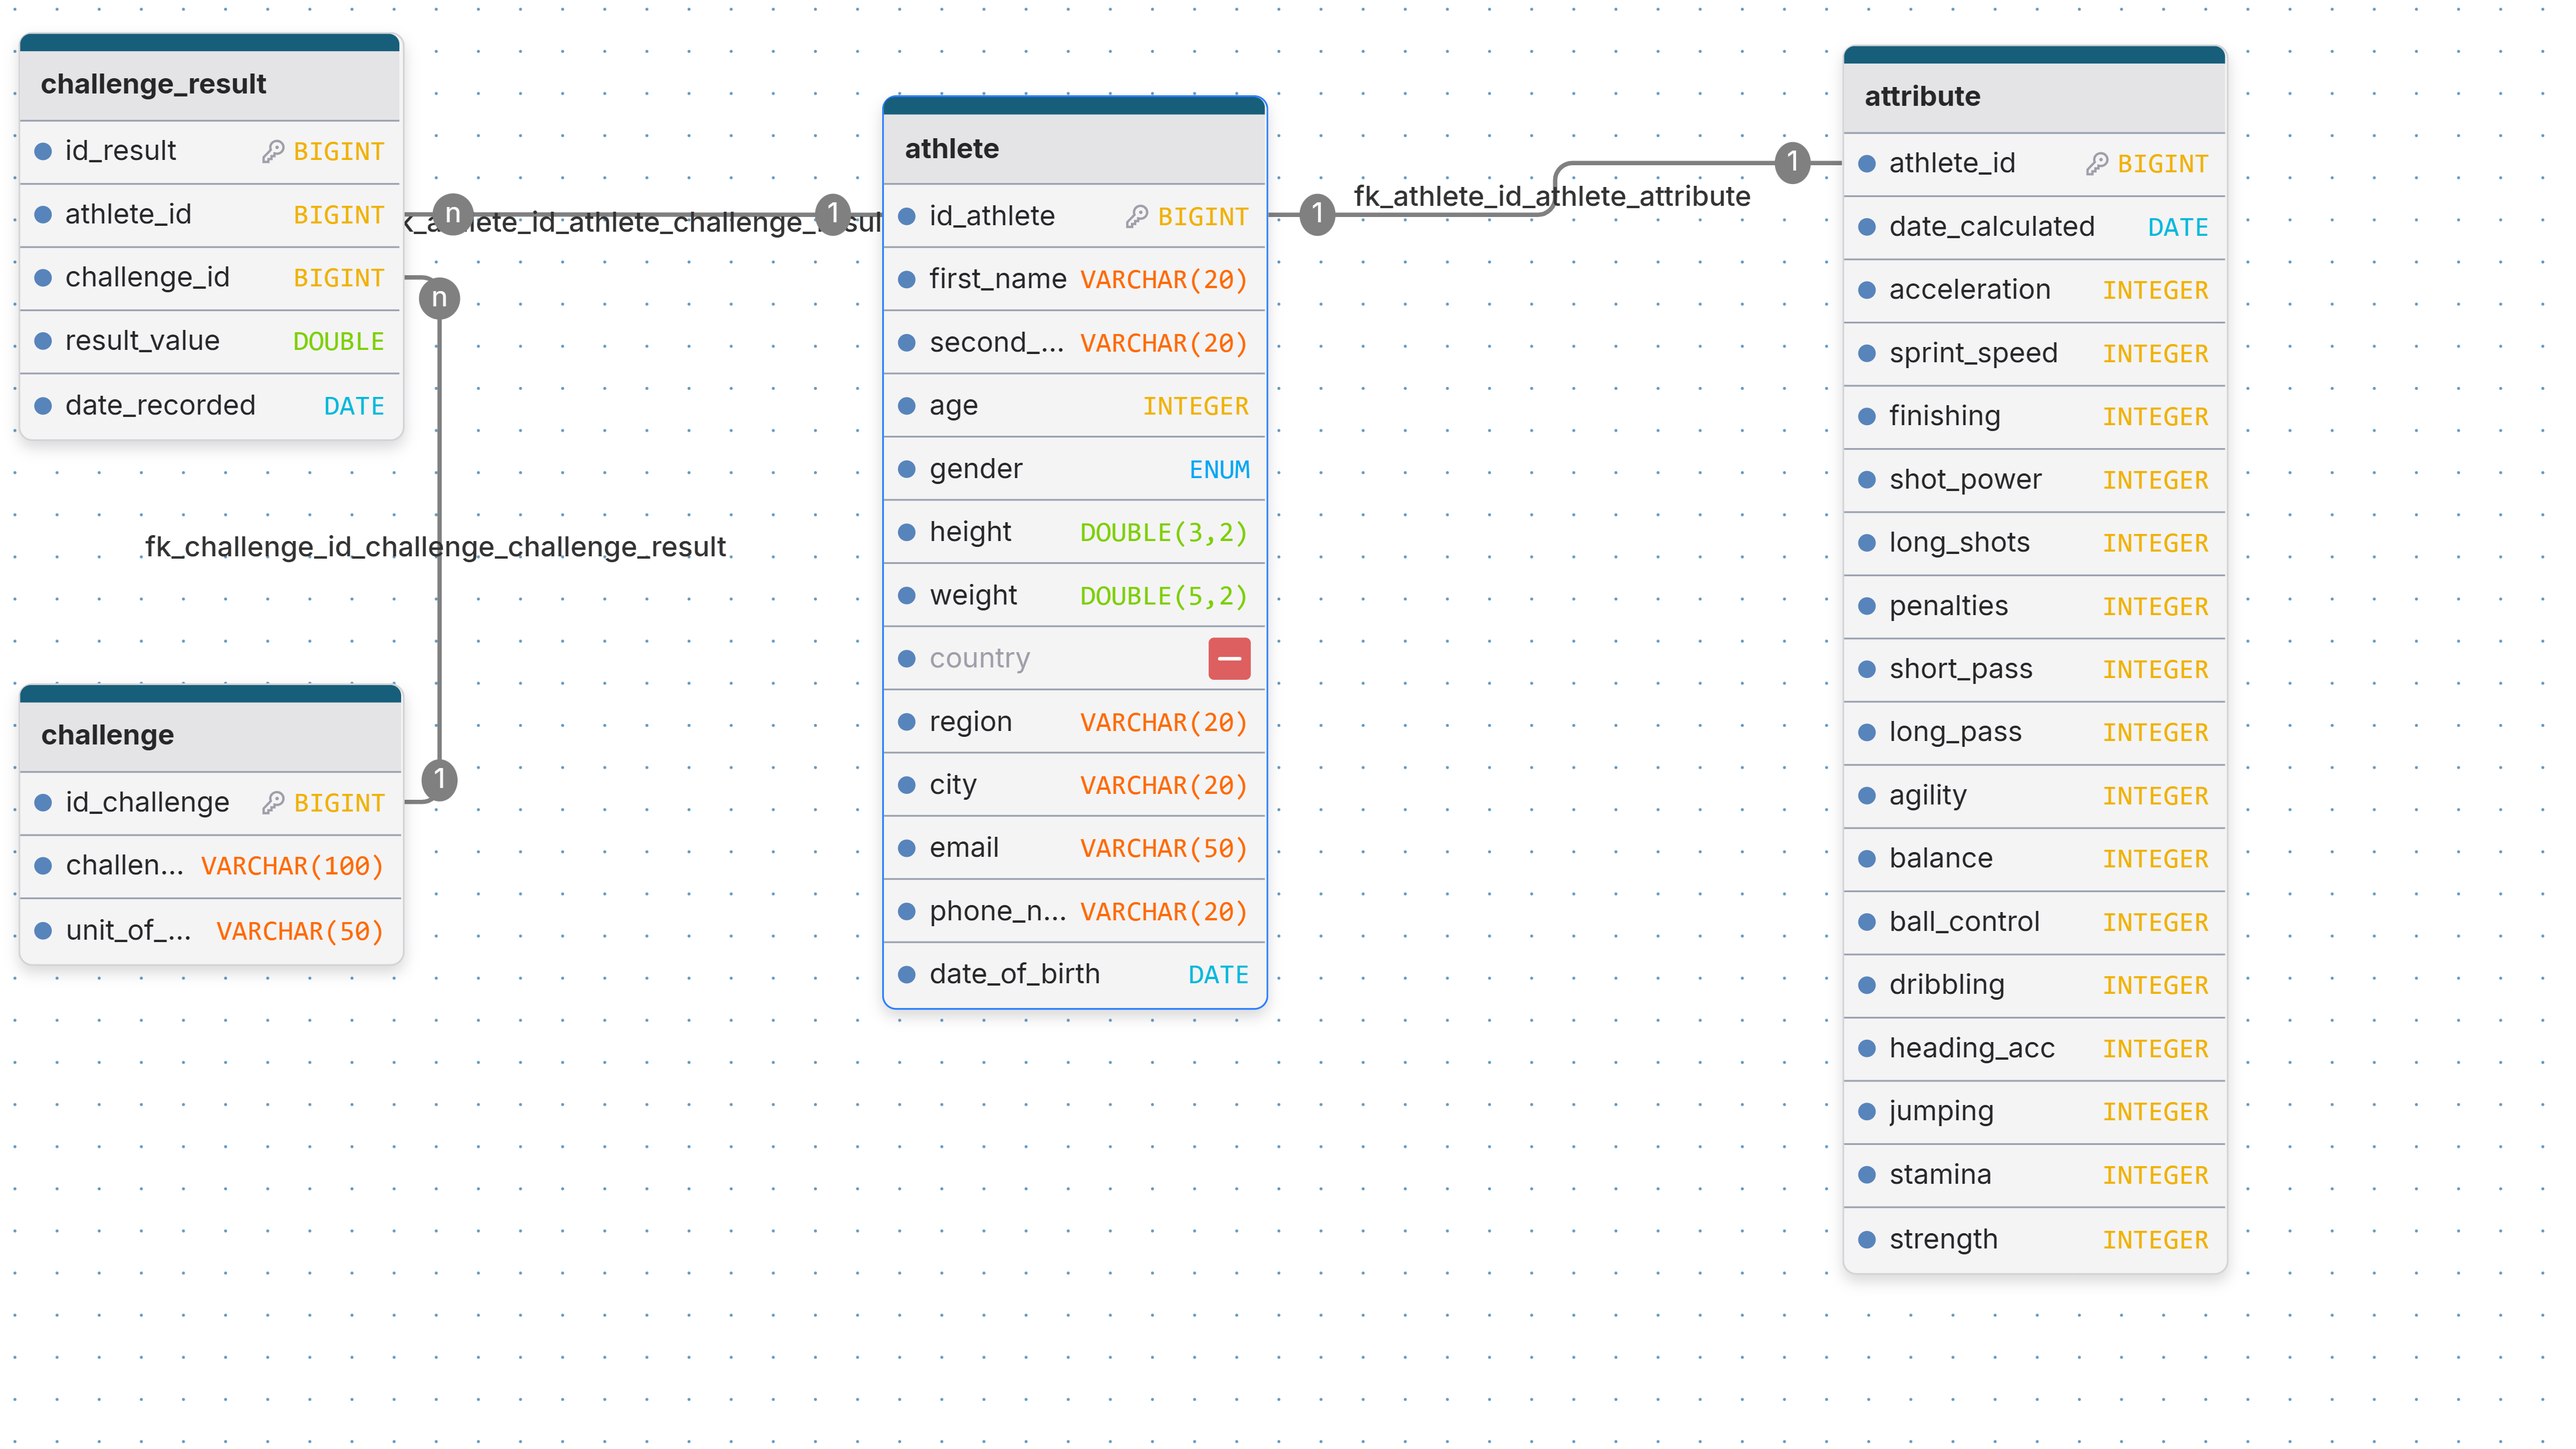
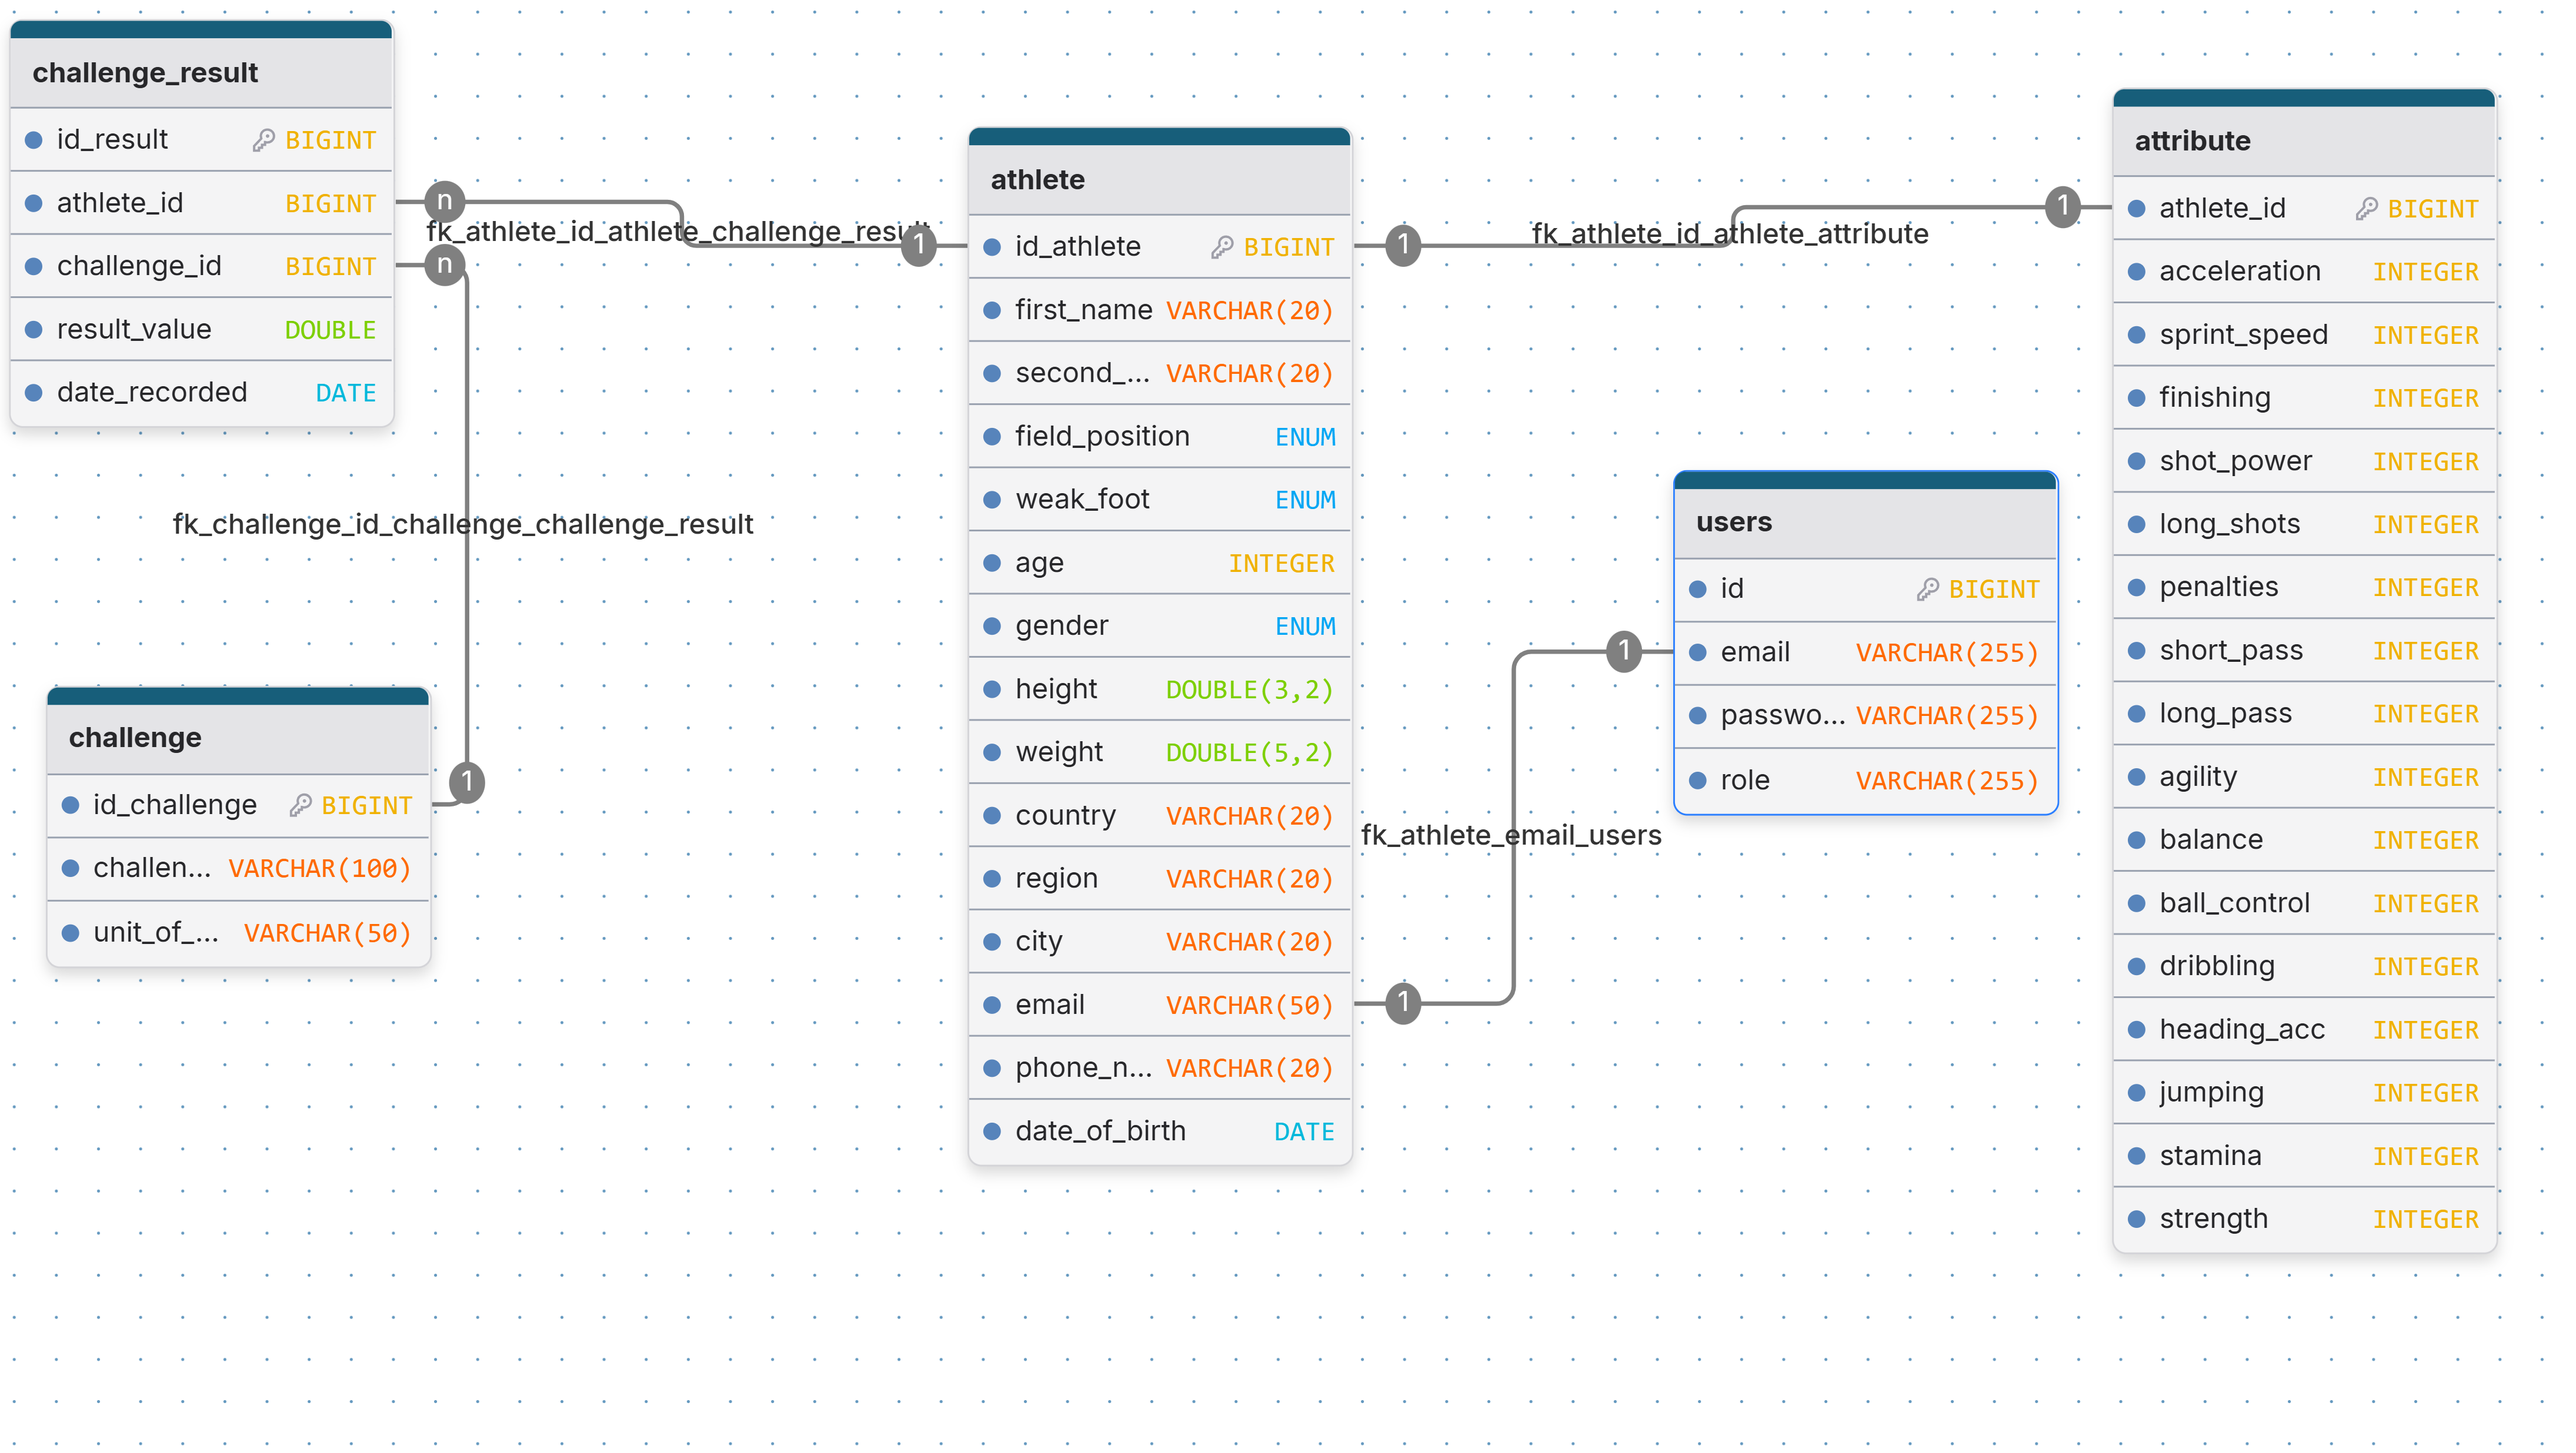
update to sql_models and schemas. I created user table to secure the routes. next step: jwt

Changed region(s): [[0.0, 0.0, 0.9936, 0.9062], [0.0, 0.5938, 0.1553, 0.6562]]

diff --git a/src/schemas/schemas.py b/src/schemas/schemas.py
@@ -1,7 +1,7 @@
 from pydantic import BaseModel, EmailStr, field_validator, Field
 from typing import Optional, List
 from datetime import date
-from utils.enums import GenderEnum, PositionsEnum, WeakFootEnum
+from utils.enums import GenderEnum, PositionsEnum, WeakFootEnum, RolesEnum
 import re
 
 
@@ -100,8 +100,6 @@ class AthleteBase(BaseModel):
     country: str = Field(..., min_length=1)
     region: str = Field(..., min_length=1)
     city: str = Field(..., min_length=1)
-    email: str
-
     phone_number: str = Field(..., min_length=1)
     date_of_birth: date
 
@@ -113,18 +111,10 @@ class AthleteBase(BaseModel):
             raise ValueError("Height incorrect format")
         return v
 
-    @field_validator('email')
-    @classmethod
-    def email_validator(cls, v):
-        email_regex = r"^[\w\.-]+@[\w\.-]+\.\w+$"
-        if not re.match(email_regex, v):
-            raise ValueError("Email incorrect format (ex: nume@domeniu.com)")
-        return v
-
 
 
 class AthleteCreate(AthleteBase):
-    first_name: str
+    email: str
     pass
 
 
@@ -154,3 +144,29 @@ class Athlete(AthleteBase):
     class Config:
         from_attributes = True
 
+
+
+class UsersBase(BaseModel):
+    email: str
+    role: Optional[str] = "user"
+
+    @field_validator('email')
+    @classmethod
+    def email_validator(cls, v):
+        email_regex = r"^[\w\.-]+@[\w\.-]+\.\w+$"
+        if not re.match(email_regex, v):
+            raise ValueError("Email incorrect format (ex: nume@domeniu.com)")
+        return v
+
+    @field_validator('role')
+    @classmethod
+    def role_validator(cls, v):
+        if v not in RolesEnum:
+            raise ValueError(f"Role must be one of {RolesEnum}")
+        return v
+
+
+class UsersUpdate(BaseModel):
+    email: Optional[str] = None
+    role: Optional[str] = None
+    password_hash: Optional[str] = None

diff --git a/src/models/sql_models.py b/src/models/sql_models.py
@@ -22,13 +22,13 @@ class Athlete(Base):
     country = Column(String(100), nullable=True)
     region = Column(String(100), nullable=True)
     city = Column(String(100), nullable=True)
-    email = Column(String(100), nullable=True)
+    email = Column(String(255), ForeignKey('users.email'), nullable=False)
     phone_number = Column(String(20), nullable=True)
     date_of_birth = Column(Date, nullable=True)
 
     attributes = relationship("Attribute", back_populates="athlete", cascade="all, delete-orphan")
     results = relationship("ChallengeResult", back_populates="athlete", cascade="all, delete-orphan")
-
+    user = relationship("Users", primaryjoin="Athlete.email == Users.email", backref="athlete_profile")
 
 class Challenge(Base):
     __tablename__ = "challenge"
@@ -79,3 +79,12 @@ class Attribute(Base):
     strength = Column(Integer, nullable=True)
 
     athlete = relationship("Athlete", back_populates="attributes")
+
+
+class Users(Base):
+    __tablename__ = 'users'
+
+    id = Column(BigInteger, primary_key=True, autoincrement=True)
+    email = Column(String(255), unique=True, nullable=False)
+    password_hash = Column(String(255), nullable=False)
+    role = Column(String(20), nullable=False)

diff --git a/src/utils/enums.py b/src/utils/enums.py
@@ -19,3 +19,8 @@ class PositionsEnum(str, Enum):
 class WeakFootEnum(str, Enum):
     left = 'left'
     right = 'right'
+
+class RolesEnum(str, Enum):
+    admin = 'admin'
+    user = 'user'
+    football_club = 'football_club'
